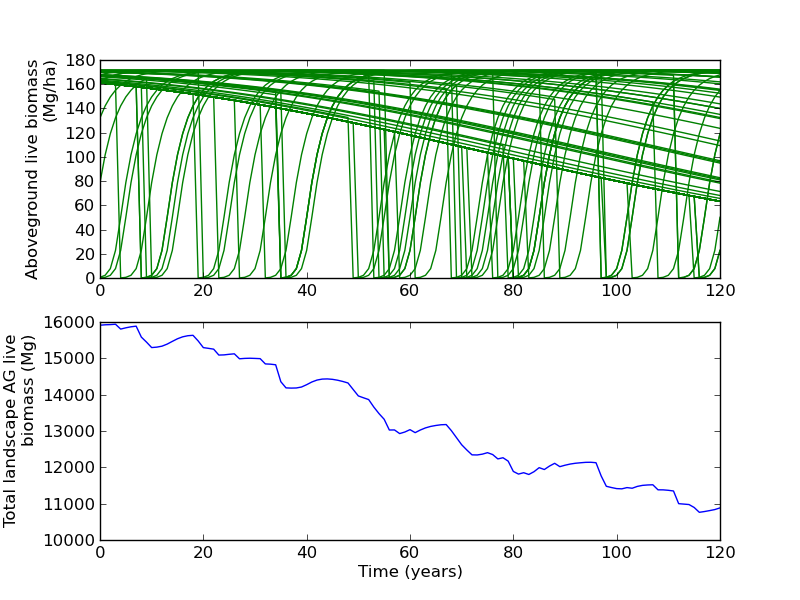
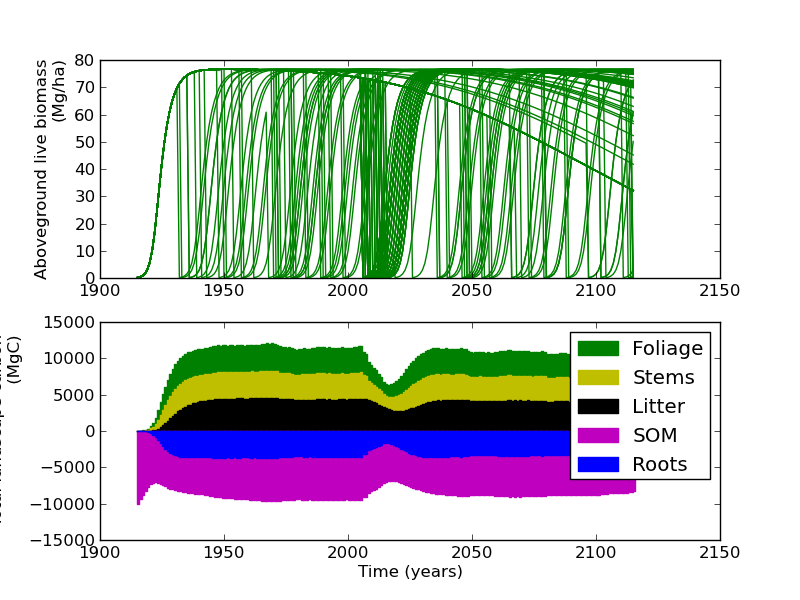
Added litter (i.e. surface fuels) and SOM pools, controlled by basic stylized turnover rate and microbial conversion efficiency parameters. Changed state variable units to carbon-only (rather than total mass) basis.  Added routine, c_plot(), to plot carbon balance by component.  Simplified landscape

diff --git a/dynamics.py b/dynamics.py
@@ -52,6 +52,8 @@ def three_PG(age, params, states):
     w_f = states['w_f'][-1]
     w_s = states['w_s'][-1]
     w_r = states['w_r'][-1]
+    w_l = states['w_l'][-1]
+    w_o = states['w_o'][-1]
 
     # calculate LAI, canopy light interception fraction
     sigma_f_conv = 0.1 * sigma_f   # specific leaf area conversion to ha/Mg
@@ -65,25 +67,56 @@ def three_PG(age, params, states):
     alpha_c = 1.8   # universal canopy quantum efficiency coefficient, gC/MJ
     f_age = age_modifier(age, age_max, n_age)
     avg_daily_C_increment = phi_pa * alpha_c * f_DT * f_age   # gC/m2/day
-    c_concentration = 0.45
-    annual_biomass_increment = (avg_daily_C_increment/c_concentration) * 365 * 0.01  # Mg/ha/y
+    # c_concentration = 0.45
+    annual_c_increment = (avg_daily_C_increment) * 365 * 0.01  # Mg/ha/y
 
-    # allocation and biomass turnover
-    # ToDo: update this with actual allometric equations
+    # calculate all turnover & transfer quantities
     # ToDo: update litterfall routine with attenuation for young stands
-    w_f += (0.33 * annual_biomass_increment) - (0.25 * w_f)
-    w_s += (0.33 * annual_biomass_increment) - (0.25 * w_s)
-    w_r += 0.33 * annual_biomass_increment
-    AGB = w_f + w_s
+    litterfall = (w_f + w_s) * 0.10
+    litter_time_constant = 4   # years
+    litter_k = (-1 * np.log(0.5)) / litter_time_constant
+    litter_turnover = w_l * (1 - np.exp(-1 * litter_k))
+    som_time_constant = 10   # years
+    som_k = (-1 * np.log(0.5)) / som_time_constant
+    som_turnover = w_o * (1 - np.exp(-1 * som_k))
+    root_turnover = 0.25 * w_r
+    microbial_efficiency = 0.25
+
+    # implement mass balance for all carbon pools
+    # ToDo: update this with actual allometric equations
+    w_f += (0.33 * annual_c_increment) - (0.25 * w_f)
+    w_s += (0.33 * annual_c_increment) - (0.25 * w_s)
+    w_r += 0.33 * annual_c_increment - root_turnover
+    w_l += litterfall - litter_turnover
+    w_o += ((root_turnover + litter_turnover) * microbial_efficiency) - som_turnover
 
     # update state variable time series
     states['age'].append(age)
     states['w_f'].append(w_f)
     states['w_s'].append(w_s)
     states['w_r'].append(w_r)
-    states['AGB'].append(AGB)
+    states['w_l'].append(w_l)
+    states['w_o'].append(w_o)
     states['LAI'].append(LAI)
     states['interception'].append(intercept_fraction)
+
+
+def c_plot(plot_object, w_l_array, w_s_array, w_f_array, w_r_array, w_o_array, time_vector, y_label):
+        w_l_plot = w_l_array
+        w_s_plot = w_l_plot + w_s_array
+        w_f_plot = w_s_plot + w_f_array
+        w_r_plot = 0 - w_r_array
+        w_o_plot = w_r_plot - w_o_array
+
+        plot_object.bar(time_vector, w_f_plot, label='Foliage', color='g', edgecolor='g')
+        plot_object.bar(time_vector, w_s_plot, label='Stems', color='y', edgecolor='y')
+        plot_object.bar(time_vector, w_l_plot, label='Litter', color='k', edgecolor='k')
+        plot_object.bar(time_vector, w_o_plot, label='SOM', color='m', edgecolor='m')
+        plot_object.bar(time_vector, w_r_plot, label='Roots', color='b', edgecolor='b')
+        plot_object.ylabel(y_label)
+        plot_object.xlabel("Time (years)")
+        plot_object.legend()
+        plot_object.show()
 
 
 # main control loop
@@ -93,7 +126,8 @@ while True:
               'w_f': [0.1],   # foliage weight, Mg/ha
               'w_s': [0.1],   # stem weight, Mg/ha
               'w_r': [0.1],   # root weight, Mg/ha
-              'AGB': [0.2],   # aboveground biomass, Mg/ha, for display purposes only
+              'w_l': [0.1],   # litter (surface biomass) weight, Mg/ha
+              'w_o': [100],   # soil organic matter weight, Mg/ha
               'LAI': [0],   # for display only
               'interception': [0]   # for display only
               }
@@ -134,87 +168,98 @@ while True:
         plt.plot(simulation_years, states['interception'])
         plt.ylabel("Canopy light\ninterception fraction")
         plt.subplot(3, 1, 3)
-        plt.plot(simulation_years, states['AGB'])
-        plt.xlabel("Time (years)")
-        plt.ylabel("Aboveground live biomass\n(Mg/ha)")
-        plt.show()
+        w_s = np.array(states['w_s'])
+        w_f = np.array(states['w_f'])
+        w_r = np.array(states['w_r'])
+        w_l = np.array(states['w_l'])
+        w_o = np.array(states['w_o'])
+        c_plot(plt, w_l, w_s, w_f, w_r, w_o, simulation_years, "Ecosystem C pools\n(MgC/ha)")
 
     elif command == 'land':
-        # determine a random distribution of starting stand ages
+        # time parameters
+        start_year = 1915
+        simulation_length = 200
+        simulation_years = range(start_year, start_year+simulation_length)
+        plot_years = range(start_year, start_year+simulation_length+1)
+
+        # initialize lists for total landscape carbon fractions
         runs = 100
-        # start_ages = np.random.normal(100, 20, runs)   # assuming median stand age corresponds to railroad logging boom
-        # print "Initial stand age distribution:"
-        # print start_ages
-        # print
-        simulation_length = 120
-        total_AGB = [0]
+        total_w_f = [0]
+        total_w_s = [0]
+        total_w_r = [0]
+        total_w_l = [0]
+        total_w_o = [0]
         for i in range(simulation_length):
-            total_AGB.append(0)
-        # run = 1
+            total_w_f.append(0)
+            total_w_s.append(0)
+            total_w_r.append(0)
+            total_w_l.append(0)
+            total_w_o.append(0)
+
+        # for each specified stand run, create & initialize a new state variable dictionary, and run through simulation
+        # years computing 3-PG model steps and adding stochastic fire, beetle, and/or harvest events where appropriate
         plt.subplot(2, 1, 1)
         for run in range(runs):
             print '\rSimulating stand %i of %i' % (run+1, runs),
-            # start_age = int(start_age)
-            start_age = 100
-            # print "Starting age:"
-            # print start_age
-            # print
-            # step through a sequence of simulation years and apply the 3-PG growth model each year
-            simulation_years = range(0, start_age+simulation_length)
+            # make a new initialized state variable dictionary
             local_states = {'age': [states['age'][0]],
                             'w_f': [states['w_f'][0]],
                             'w_s': [states['w_s'][0]],
                             'w_r': [states['w_r'][0]],
-                            'AGB': [states['AGB'][0]],
+                            'w_l': [states['w_l'][0]],
+                            'w_o': [states['w_o'][0]],
                             'LAI': [states['LAI'][0]],
                             'interception': [states['interception'][0]]
                             }
-            # print "Master copy of initial state variables:"
-            # print states
-            # print
-            # print "Local copy(?) of state variables:"
-            # print local_states
-            # print
+            # define stand starting age and stochstic variables
             age = 0
             fire_frequency = 200   # years to a stand-replacing fire
+            infest_start = 2005
+            infest_end = 2015
+            infest_risk = 0.8 / (infest_end - infest_start)
+            infested = False
             for year in simulation_years:
+                # implement infestation where appropriate.  No growth or fire occur in infestation years
                 rand = random()
-                if rand <= (1.0/fire_frequency):
-                    # print "   Fire event!"
+                if not infested and (infest_start <= year <= infest_end) and (rand <= infest_risk):
                     age = 0
                     local_states['age'].append(0)
                     local_states['w_f'].append(0.1)
                     local_states['w_s'].append(0.1)
                     local_states['w_r'].append(0.1)
-                    local_states['AGB'].append(0.2)
+                    local_states['w_l'].append(local_states['w_l'][-1]+local_states['w_f'][-1]+local_states['w_s'][-1])
+                    local_states['w_o'].append(local_states['w_o'][-1]+local_states['w_r'][-1])
                     local_states['LAI'].append(0)
                     local_states['interception'].append(0)
                 else:
-                    three_PG(age, params, local_states)
-                age += 1
-            # drop the 'spin-up' results
-            simulation_years.insert(0, 0)   # insert a value corresponding to initial conditions
-            # print "Full results:"
-            # print local_states['age']
-            for key in local_states.keys():
-                for i in range(start_age):
-                    del local_states[key][0]
-            # print
-            # print "Truncated results:"
-            # print local_states['age']
-            # print
-            # plot results
-            plt.plot(range(simulation_length+1), local_states['AGB'], color="g")
-            for i in range(len(total_AGB)):
-                total_AGB[i] += local_states['AGB'][i]
-            # run += 1
+                    # if no infestation, proceed normally with stochistic fire events or 3-PG growth step
+                    fire_risk = (1.0/fire_frequency) * (local_states['w_l'][-1]/50)
+                    rand = random()
+                    if rand <= fire_risk:
+                        age = 0
+                        local_states['age'].append(0)
+                        local_states['w_f'].append(0.1)
+                        local_states['w_s'].append(0.1)
+                        local_states['w_r'].append(0.1)
+                        local_states['w_l'].append(0.1)
+                        local_states['w_o'].append(local_states['w_o'][-1]+local_states['w_r'][-1])
+                        local_states['LAI'].append(0)
+                        local_states['interception'].append(0)
+                    else:
+                        three_PG(age, params, local_states)
+                    age += 1
+
+            AGL = np.array(local_states['w_f']) + np.array(local_states['w_s'])
+            plt.plot(plot_years, AGL, color="g")
+            total_w_f += np.array(local_states['w_f'])
+            total_w_s += np.array(local_states['w_s'])
+            total_w_r += np.array(local_states['w_r'])
+            total_w_l += np.array(local_states['w_l'])
+            total_w_o += np.array(local_states['w_o'])
 
         plt.ylabel("Aboveground live biomass\n(Mg/ha)")
         plt.subplot(2, 1, 2)
-        plt.plot(range(simulation_length+1), total_AGB)
-        plt.ylabel("Total landscape AG live\nbiomass (Mg)")
-        plt.xlabel("Time (years)")
-        plt.show()
+        c_plot(plt, total_w_l, total_w_s, total_w_f, total_w_r, total_w_o, plot_years, "Total landscape carbon (MgC)")
 
     elif command == 'q':
         print "   Quitting application..."
